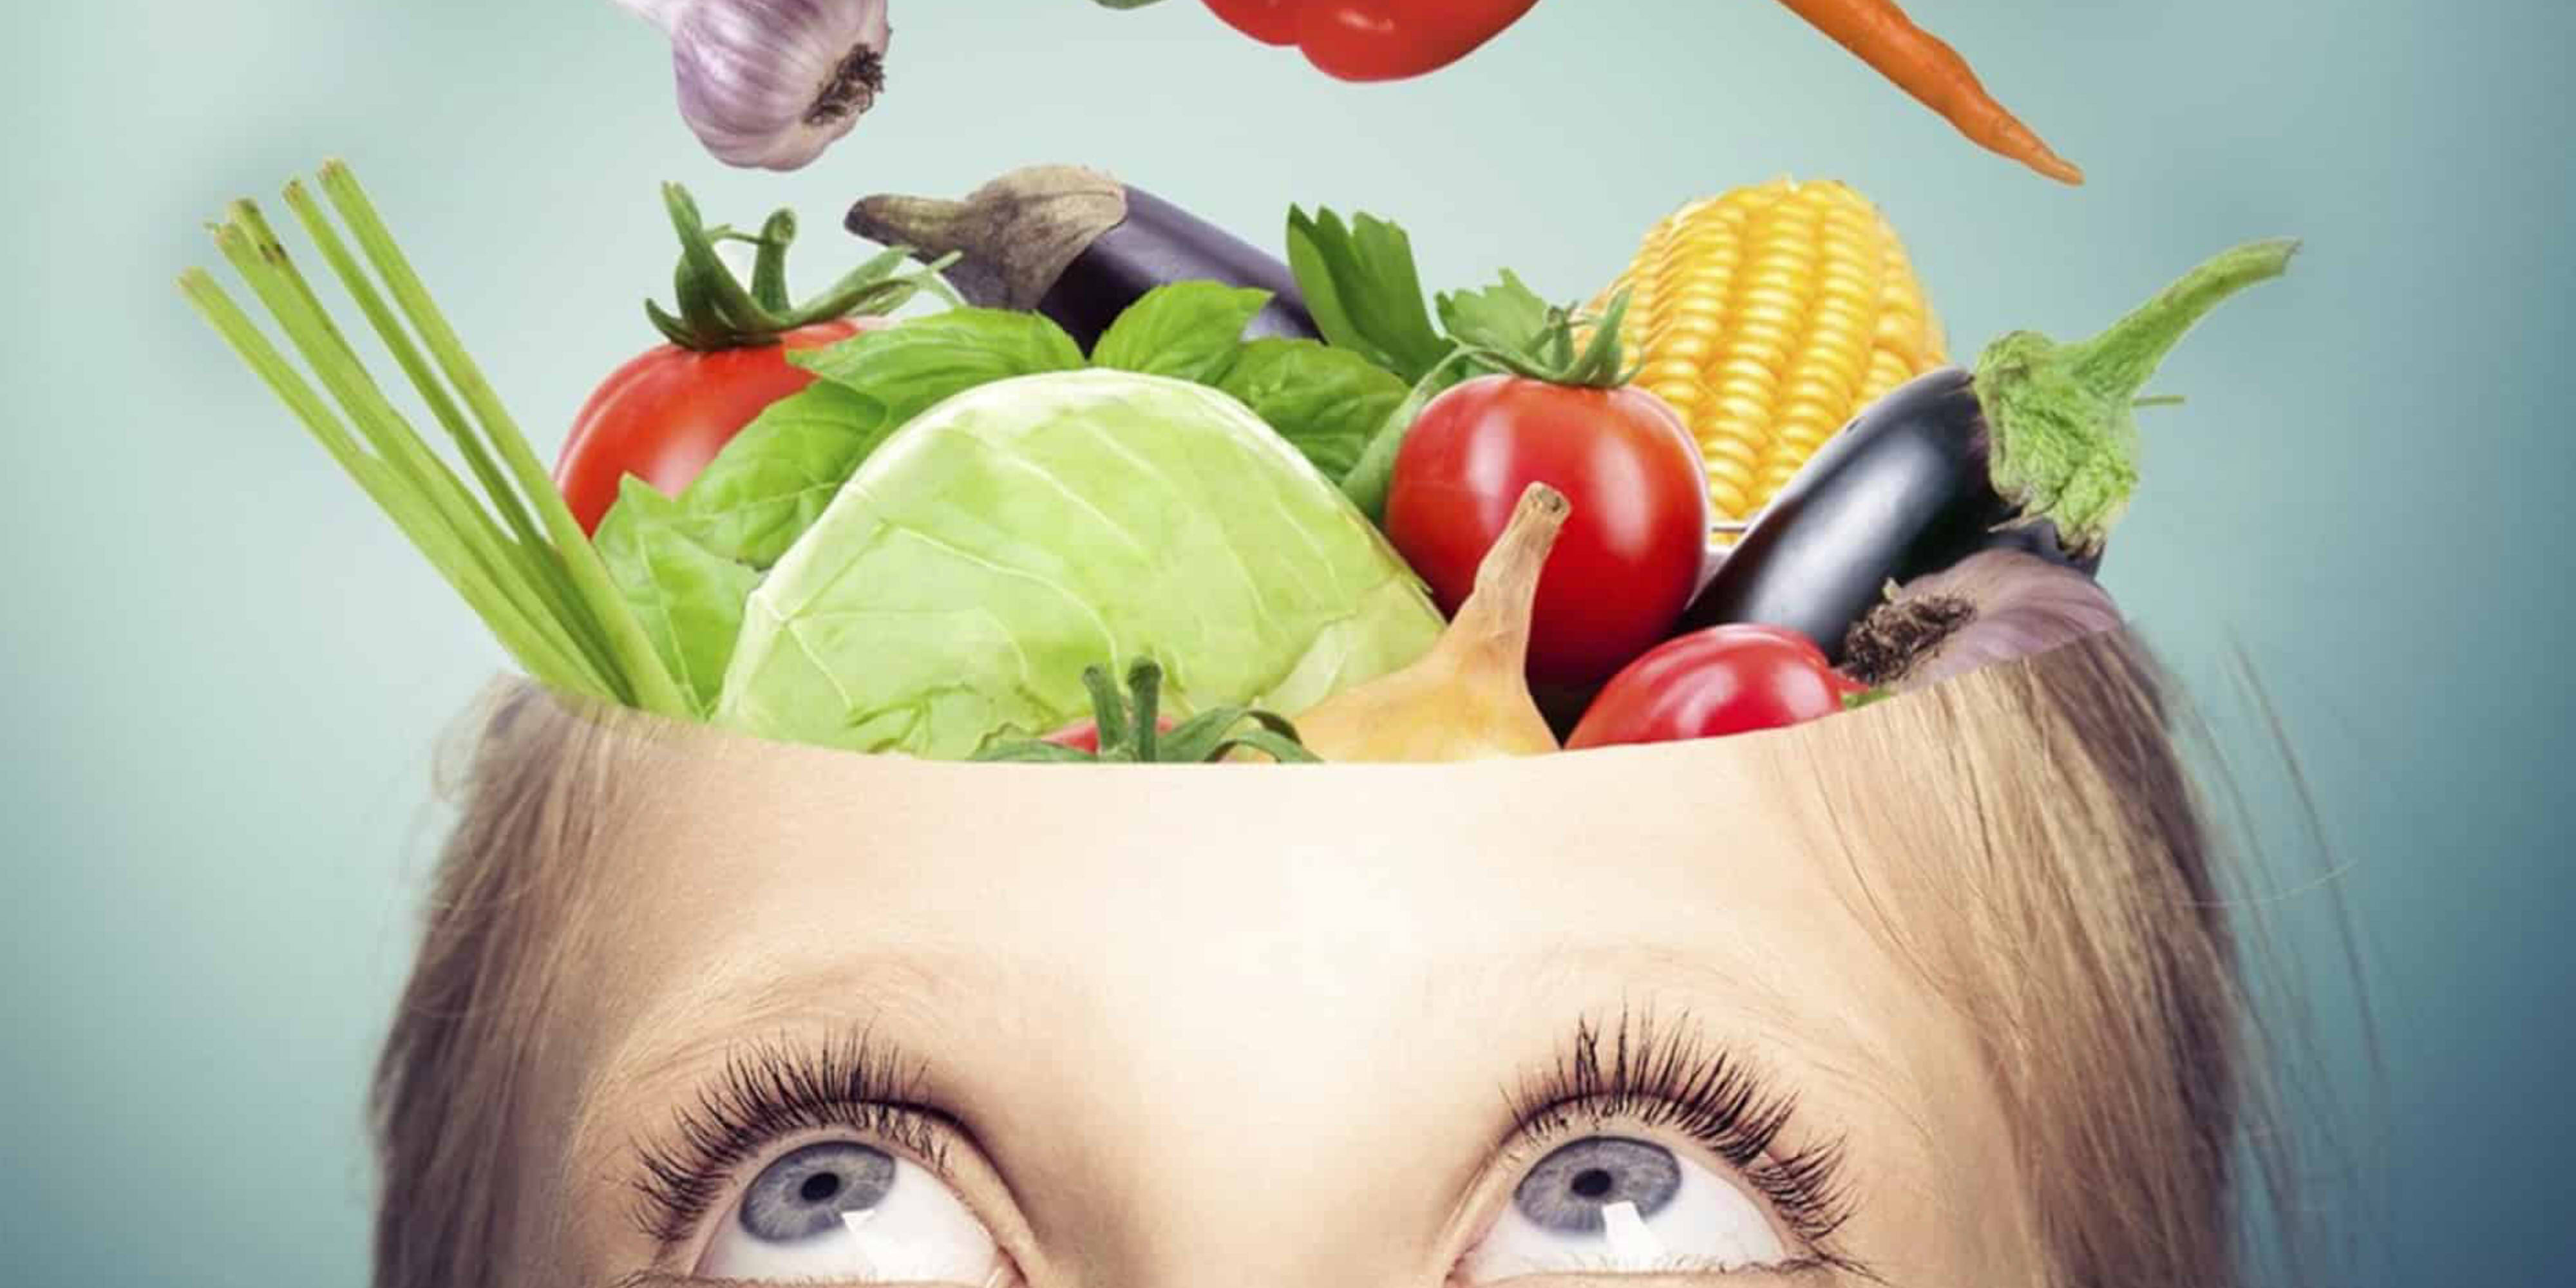
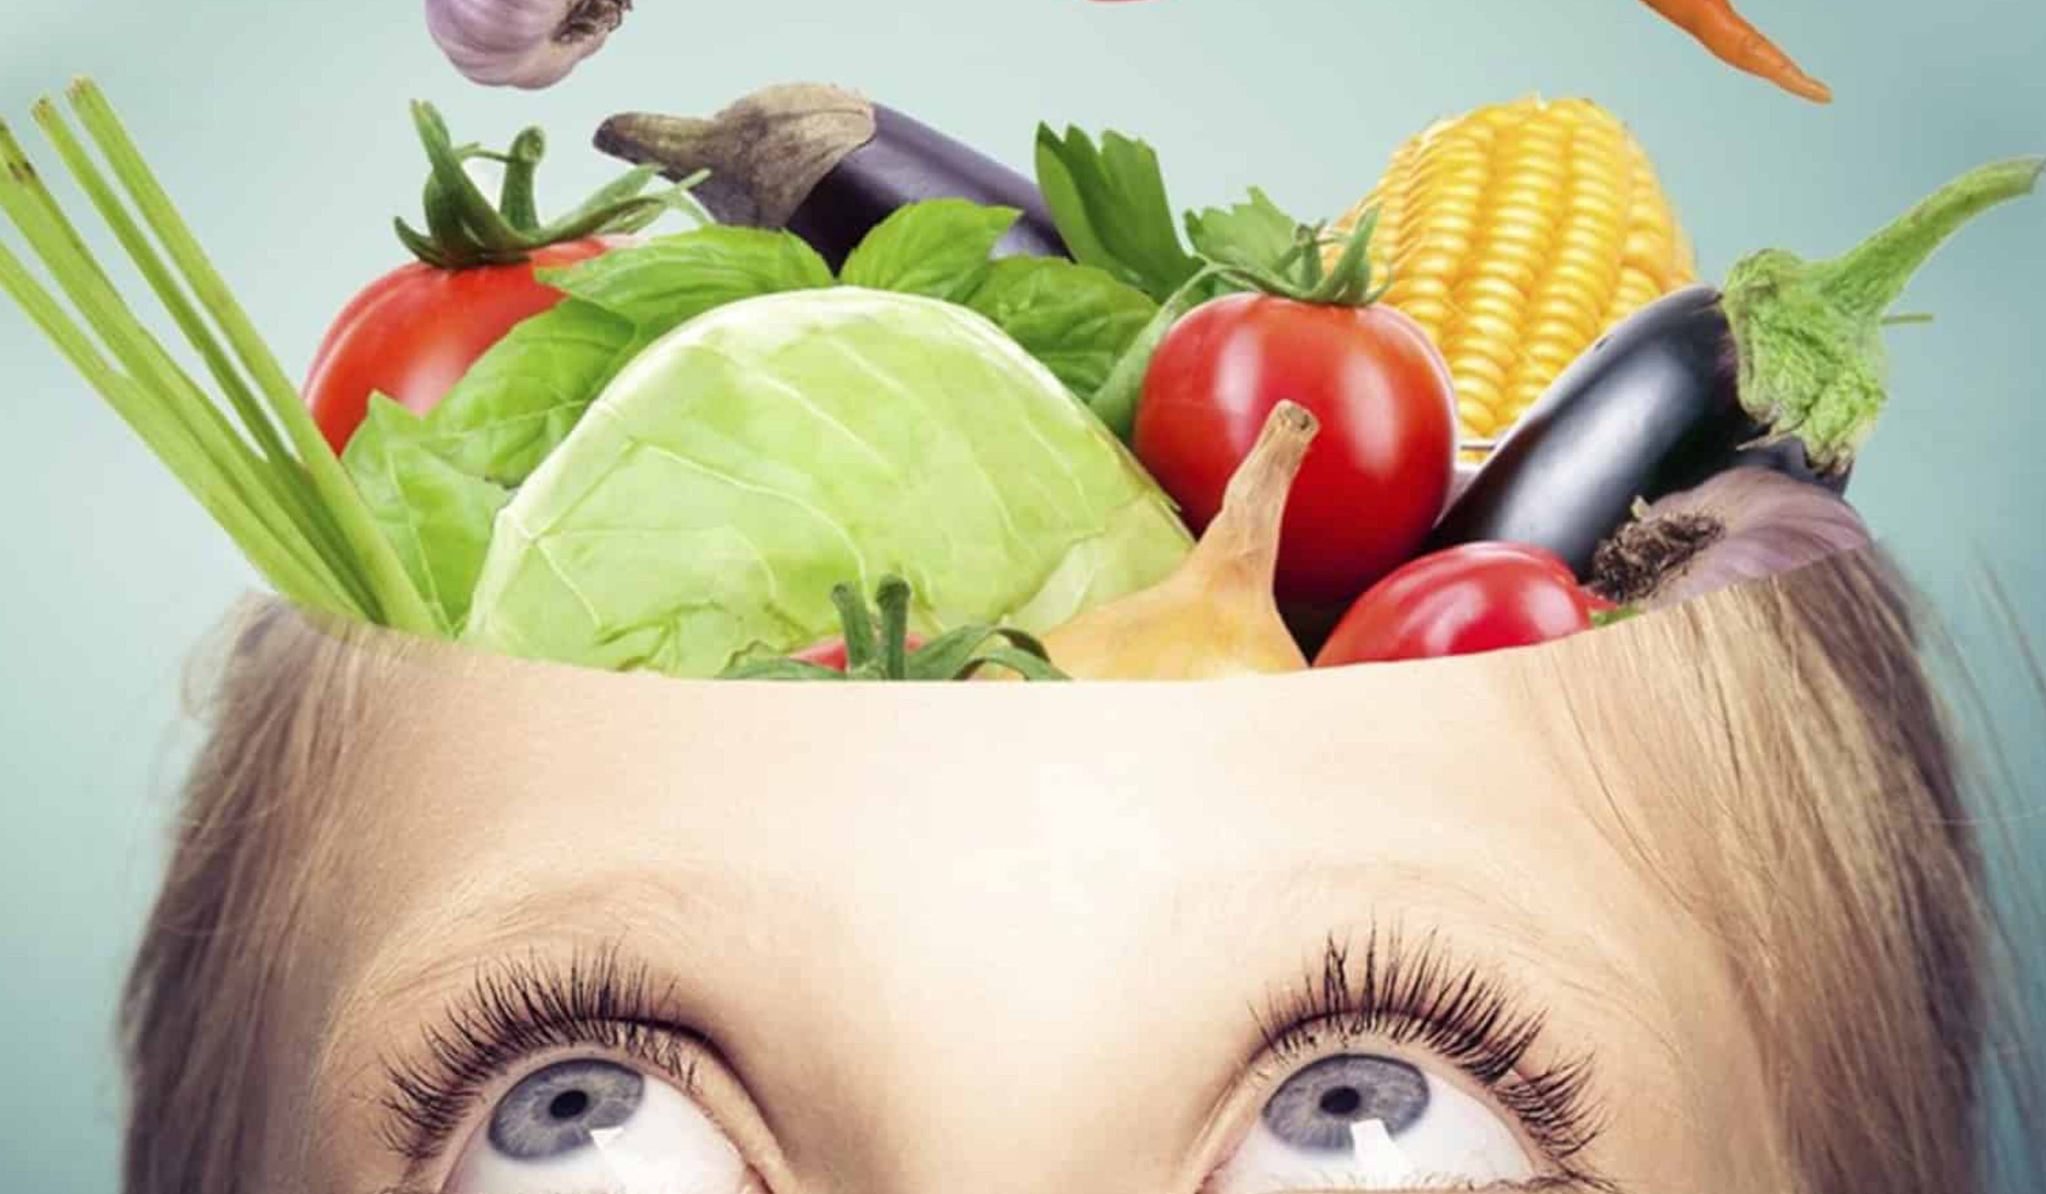
cambios3

diff --git a/style.css b/style.css
@@ -14,7 +14,6 @@ body {
 nav {
   background-image: url("images/bg.png");
   background-color: blueviolet;
-  background-position:50%;
   width: 100%;
   height: fit-content;
   display: flex;
@@ -80,8 +79,8 @@ nav li:hover {
 
 .principal{
   display: flex;
-  flex-wrap: wrap;
 }
+
 .tituloUltimo {
   color: #8911b4;
   font-size: 5rem;
@@ -89,28 +88,26 @@ nav li:hover {
 }
 
 .ultimo {
-  height: 40rem;
+  height: 45rem;
   width: 40%;
   margin: 5%;
   border: 10px inset #ed68ff;
   padding: 10px;
   position: relative;
-  flex: 1;
 }
 
 /* Carrusel */
 .carrusel {
   width: 100%;
   height: 500px;
-  overflow: hidden;
+  overflow-y: hidden;
   position: relative;
 }
+
 .slide img {
   width: 100%;
   height: 100%;
-  object-fit:contain;
-  border: none;
-  border-style: none;
+  object-fit: cover;
 }
 
 .slide h2 {
@@ -156,14 +153,7 @@ nav li:hover {
   left: 5%;
 }
 
-@keyframes left {
-  from { left: 0; }
-  to { left: -100%; }
-}
-
 .pregunta{
-  display: flex;
-  flex-direction: column;
   width: 50em;
   margin: 5%;
 }
@@ -177,3 +167,44 @@ nav li:hover {
 }
 
 /*Footer*/ 
+footer{
+  background-image: url("images/bg.png");
+  background-color: blueviolet;
+  width: 100%;
+  height: fit-content;
+  display: flex;
+  justify-content: space-between;
+}
+
+footer img{
+  width: 100px;
+  height: 100px;
+}
+.social{
+  color: white;
+  display: flex;
+  flex-direction: row;
+  margin: 2%;
+}
+.social img{
+  padding: 10%;
+  margin: 10%;
+}
+.social h3{
+  font-weight: bolder;
+  font-size: 2rem;
+}
+.ayuda{
+  display: flexbox;
+  color: white;
+  justify-content:flex-end;
+  align-items: flex-end;
+  margin: 2%;
+  flex: 1;
+}
+.ayuda h3{
+  font-weight: bolder;
+}
+.logoFooter{
+  left: 100px;
+}

diff --git a/index.html b/index.html
@@ -66,7 +66,6 @@
             <button class="botonIzq"></button>
             </div>
           </div>
-
           <div class="pregunta">
               <h2>¿Por qué es importante cuidar la alimentación cuando se está cuidando de la salud mental?</h2>
               <p>Lorem ipsum dolor sit amet, consectetur adipiscing elit. Nam lacus turpis, hendrerit non finibus ut, iaculis ac nunc. Donec placerat eget lectus ac commodo. Vestibulum aliquam lorem quis velit pharetra, in volutpat justo pulvinar. Nulla a eros sed arcu porta tincidunt vitae vitae turpis. Aliquam commodo porta felis id fringilla. Praesent pulvinar, velit sodales blandit commodo, tortor lacus bibendum neque, eu lobortis augue mauris vel massa. Nulla facilisi. Maecenas auctor a urna eu interdum. Fusce non vehicula nulla.</p>
@@ -78,15 +77,15 @@
     <footer>
       <div class="social">
           <h3>Redes sociales</h3>
-          <a href="#"><img src="images/twitter.png" alt="Twitter"></a>
-          <a href="#"><img src="images/instagram.png" alt="Instagram"></a>
+          <a href="https://x.com/home"><img src="images/twitterLogo.png" alt="Twitter"></a>
+          <a href="https://www.instagram.com/"><img src="images/instagramLogo.png" alt="Instagram"></a>
       </div>
-      <div class="contact">
+      <div class="ayuda">
           <h3>Números de ayuda</h3>
           <p>600 360 7777</p>
           <p>4141</p>
       </div>
-      <div class="logo-footer">
+      <div class="logoFooter">
           <img src="images/logoPaz.png" alt="Nutri y Paz logo">
       </div>
   </footer>
